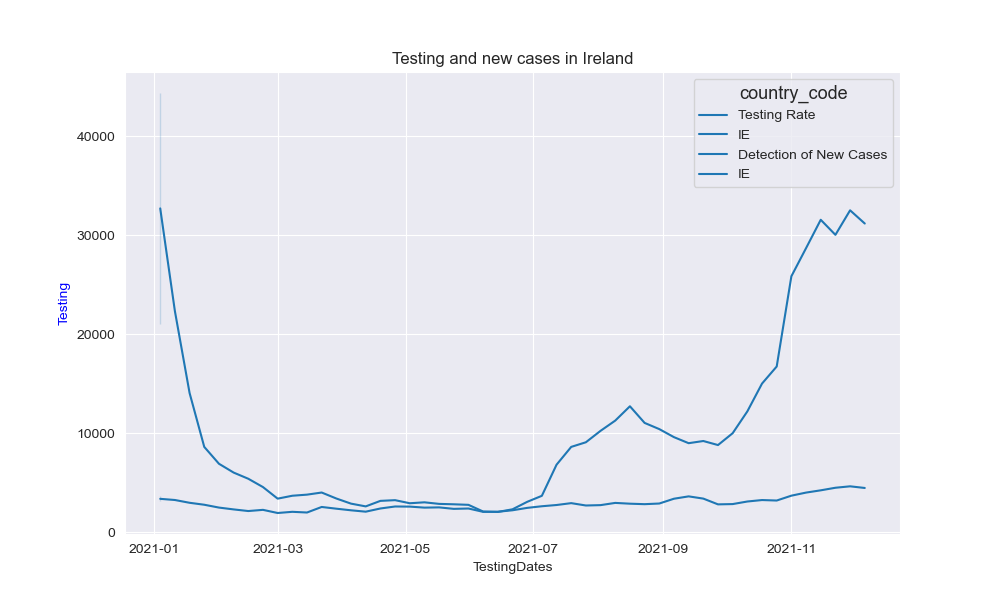
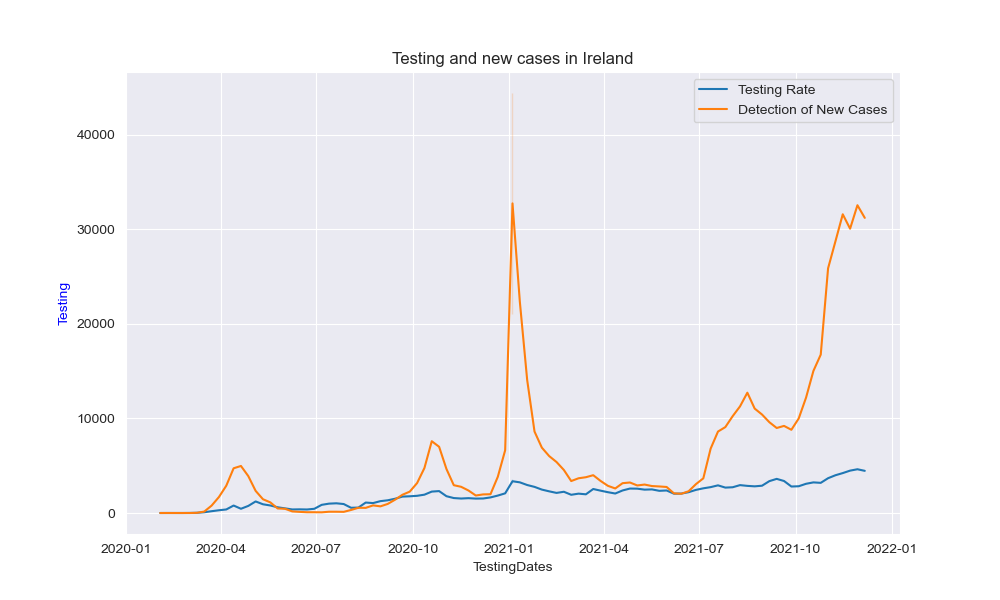
Adding gradual detail

diff --git a/UCDPA_gavinhoran_Pycharm/mergingCSVcopyExport.py b/UCDPA_gavinhoran_Pycharm/mergingCSVcopyExport.py
@@ -15,9 +15,8 @@ plt.rc('ytick', labelsize=10)  # fontsize of the tick labels
 plt.rc('legend', fontsize=10)  # legend fontsize
 plt.rc('font', size=13)  # controls default text sizes
 
-
-
 import pandas as pd
+
 df = pd.read_csv('https://opendata.ecdc.europa.eu/covid19/testing/csv/data.csv')
 df2 = pd.read_csv('https://opendata.ecdc.europa.eu/covid19/virusvariant/csv/data.csv')
 # This is a for loop!
@@ -29,11 +28,23 @@ df2 = pd.read_csv('https://opendata.ecdc.europa.eu/covid19/virusvariant/csv/data
 # for col in df2.columns:
 #     print(col)
 
-df_new = pd.merge(df, df2, left_on=('country', 'country_code', 'year_week'),right_on=('country', 'country_code', 'year_week'), how="outer")
+df_new = pd.merge(df, df2, left_on=('country', 'country_code', 'year_week'),
+                  right_on=('country', 'country_code', 'year_week'), how="outer")
 print(df_new.head())
 df_new.to_csv(r'variantAndTestingDataMerged.csv')
 
 for col in df_new.columns:
+    print(col)
+
+# df_dropper = df_new.copy(deep=True)
+df_dropper = df_new.copy()
+print(df_dropper.head())
+for col in df_dropper.columns:
+    print(col)
+
+df_dropper.drop('percent_variant', axis=1)
+print(df_dropper.head())
+for col in df_dropper.columns:
     print(col)
 
 # country = ['IE', 'DE', 'ES', 'FR', 'NL']  # looking at five comparable countries IE_DE_ES_FR_NL_Testing.py

diff --git a/UCDPA_gavinhoran_Pycharm/FromJan2021.py b/UCDPA_gavinhoran_Pycharm/FromJan2021.py
@@ -37,9 +37,15 @@ df_sixmonths = df_sixmonths[(df_sixmonths['TestingDates'].dt.year == 2021)]#use 
 #fig = plt.figure()
 fig, axes = plt.subplots(figsize=(10, 6))
 
-t1 = sns.lineplot(x="TestingDates", y="testing_rate", data=df_sixmonths,label="Testing Rate",hue='country_code')  # first plot
+t1 = sns.lineplot(x="TestingDates", y="testing_rate", data=df_sixmonths,label="Testing Rate")  # first plot
 
-t2 = sns.lineplot(x="TestingDates", y="new_cases", data=df_sixmonths,label="Detection of New Cases",hue='country_code')  # second plot i want these to share axes;
+t2 = sns.lineplot(x="TestingDates", y="new_cases", data=df_sixmonths,label="Detection of New Cases")  # second plot i want these to share axes;
+
+# I included hue for when I was doing this over multiple countries.
+# t1 = sns.lineplot(x="TestingDates", y="testing_rate", data=df_sixmonths,label="Testing Rate",hue='country_code')  # first plot
+#
+# t2 = sns.lineplot(x="TestingDates", y="new_cases", data=df_sixmonths,label="Detection of New Cases",hue='country_code')  # second plot i want these to share axes;
+
 
 # the first subplot
 ax0 = plt.subplot(t1)

diff --git a/UCDPA_gavinhoran_Pycharm/dropper.py b/UCDPA_gavinhoran_Pycharm/dropper.py
@@ -1,0 +1,27 @@
+# This was pretty much solely to demonstrate the use of concat, to vertically merge the two datasets,
+# and then drop_duplicates to bring it back down to the original. As noted in my implementation, the way that the
+# ECDC stewarded their data meant that there were very few duplicated rows. Once the dataframes were carefully
+# merged, across all columns they have in common, dropping duplicates was not necessary. Confirmed with Cian that
+# demonstrating capacity was sufficient rather than including an example of the drop in the actual analysis.
+#
+import pandas as pd
+
+df = pd.read_csv('https://opendata.ecdc.europa.eu/covid19/testing/csv/data.csv')
+print(df.shape)
+df2 = pd.read_csv('https://opendata.ecdc.europa.eu/covid19/testing/csv/data.csv')
+print(df2.shape)
+
+
+df_new = pd.concat([df, df2])
+print(df_new.shape)
+# print(df_new.head())
+
+# for col in df_new.columns:
+#     print(col)
+
+# df_dropper = df_new.copy(deep=True)
+df_new = df_new.drop_duplicates()
+# print(df_new.head())
+# for col in df_new.columns:
+#     print(col)
+print(df_new.shape)

diff --git a/UCDPA_gavinhoran_Pycharm/deathNumPy.py b/UCDPA_gavinhoran_Pycharm/deathNumPy.py
@@ -1,0 +1,31 @@
+import pandas as pd
+import numpy as np
+import seaborn as sns
+import matplotlib.pyplot as plt
+
+death = pd.read_csv("https://opendata.ecdc.europa.eu/covid19/nationalcasedeath_eueea_daily_ei/csv/data.csv")
+
+df = death.groupby('countryterritoryCode')
+dfg = death.groupby(["countryterritoryCode"]).mean()
+# print(dfg)
+
+# print(type(dfg))
+
+dfgsorted = dfg.sort_values(by=['deaths'])
+# only interested in ireland
+# dfgsorted.to_excel("deathsGroupedSorted.xlsx")
+
+moreDeathThanIreland = dfgsorted.index[dfgsorted['deaths'] > 19.65 ].tolist()
+print(moreDeathThanIreland)
+death_ireland = death[death['countryterritoryCode'] == 'IRL']
+# print(np.mean(death_ireland['deaths']))
+
+
+# print(death_ireland.head()) I was checking I had the right data.
+
+# There are a lot of zero entries; I would like to remove those;
+
+death_ireland = death_ireland.loc[death_ireland['deaths'] != 0]
+# print(death_ireland.info)
+# print(np.mean(death_ireland['deaths']))
+

diff --git a/UCDPA_gavinhoran_Pycharm/ECDCChecked/LmPlotChecker.py b/UCDPA_gavinhoran_Pycharm/ECDCChecked/LmPlotChecker.py
@@ -12,7 +12,7 @@ import pandas as pd
 from pandas import Series, DataFrame
 from pandas.io.parsers import TextFileReader
 
-from UCDPA_gavinhoran_Pycharm.FromJan2021 import my_dater
+from UCDPA_gavinhoran_Pycharm.functionFile import my_dater
 from UCDPA_gavinhoran_Pycharm.functionFile import png_time_namer
 
 # These are the various options available for the sns style list. 
